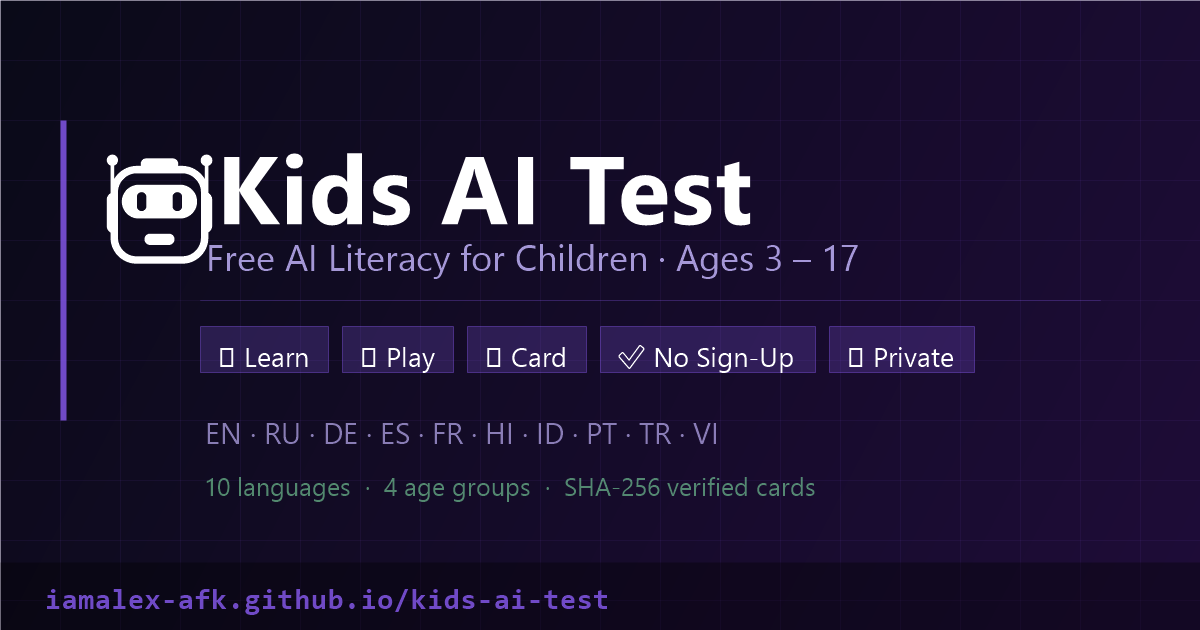
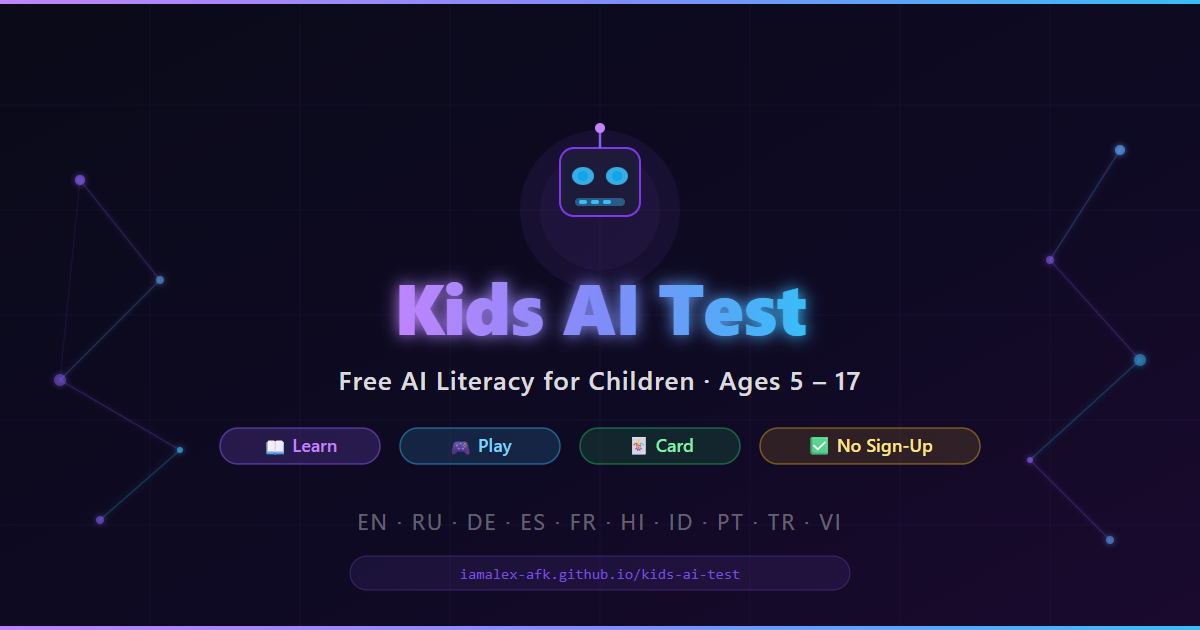
Speech only on a tap in games; neutral 5-7 answer marks; og.png re-rendered
- snake / runner / racing: after a round, ages 5-10 get a "Read to me"
  button instead of automatic speech (docs/VISUAL-SPEC.md §8)
- 5-7 lesson check on the main page: the big marks were green/red by
  position (the first answer always looked right); now neutral star/moon
- og.png rendered from og.svg: ages 5-17, no broken glyphs, no
  "SHA-256 verified cards" claim

diff --git a/js/snake.js b/js/snake.js
@@ -860,10 +860,16 @@
         els.overlay.classList.add('hidden'); playRound(roundIdx + 1);
       }, { once: true });
 
-      // Read the learned word/phrase + fact aloud — the youngest players
-      // can't read yet, and this fact is the whole point of the round.
-      if ((age === 'tiny' || age === 'child') && window.speakText) {
-        window.speakText(`${wordDisplay}. ${round.fact || ''}`);
+      // The youngest players can't read yet: a "Read to me" button reads the
+      // word + fact aloud. Only on a tap (docs/VISUAL-SPEC.md §8), never by itself.
+      if ((age === 'tiny' || age === 'child') && window.speakText && window.speechSynthesis) {
+        const read = document.createElement('button');
+        read.type = 'button';
+        read.className = 'btn-read-aloud';
+        read.textContent = '🔊 ' + (window.LANG_DATA?.ui?.ui_read_aloud || 'Read to me');
+        read.addEventListener('click', () => window.speakText(`${wordDisplay}. ${round.fact || ''}`));
+        const card = els.overlay.querySelector('.snake-overlay-card');
+        card.insertBefore(read, card.querySelector('.btn-primary'));
       }
     }
 

diff --git a/js/platformer.js b/js/platformer.js
@@ -856,10 +856,16 @@
         els.overlay.classList.add('hidden'); state.paused = false;
       }, { once: true });
 
-      // Read the learned word/phrase + fact aloud — the youngest players
-      // can't read yet, and this fact is the whole point of the round.
-      if ((age === 'tiny' || age === 'child') && window.speakText) {
-        window.speakText(`${wordDisplay}. ${round.fact || ''}`);
+      // The youngest players can't read yet: a "Read to me" button reads the
+      // word + fact aloud. Only on a tap (docs/VISUAL-SPEC.md §8), never by itself.
+      if ((age === 'tiny' || age === 'child') && window.speakText && window.speechSynthesis) {
+        const read = document.createElement('button');
+        read.type = 'button';
+        read.className = 'btn-read-aloud';
+        read.textContent = '🔊 ' + (window.LANG_DATA?.ui?.ui_read_aloud || 'Read to me');
+        read.addEventListener('click', () => window.speakText(`${wordDisplay}. ${round.fact || ''}`));
+        const card = els.overlay.querySelector('.snake-overlay-card');
+        card.insertBefore(read, card.querySelector('.btn-primary'));
       }
     }
 

diff --git a/js/racing.js b/js/racing.js
@@ -805,10 +805,16 @@
         els.overlay.classList.add('hidden'); state.paused = false;
       }, { once: true });
 
-      // Read the learned word/phrase + fact aloud — the youngest players
-      // can't read yet, and this fact is the whole point of the round.
-      if ((age === 'tiny' || age === 'child') && window.speakText) {
-        window.speakText(`${wordDisplay}. ${round.fact || ''}`);
+      // The youngest players can't read yet: a "Read to me" button reads the
+      // word + fact aloud. Only on a tap (docs/VISUAL-SPEC.md §8), never by itself.
+      if ((age === 'tiny' || age === 'child') && window.speakText && window.speechSynthesis) {
+        const read = document.createElement('button');
+        read.type = 'button';
+        read.className = 'btn-read-aloud';
+        read.textContent = '🔊 ' + (window.LANG_DATA?.ui?.ui_read_aloud || 'Read to me');
+        read.addEventListener('click', () => window.speakText(`${wordDisplay}. ${round.fact || ''}`));
+        const card = els.overlay.querySelector('.snake-overlay-card');
+        card.insertBefore(read, card.querySelector('.btn-primary'));
       }
     }
 

diff --git a/js/core.js b/js/core.js
@@ -426,7 +426,7 @@ function renderMiniTest() {
 
   if (isTiny) {
     opts.className = 'tiny-answers';
-    const tinyIcons = ['🟢', '🔴'];
+    const tinyIcons = ['⭐', '🌙'];   // neutral: a colour must not hint at the answer
     displayOpts.forEach((opt, i) => {
       const btn = document.createElement('button');
       btn.className = 'ans-tiny';

diff --git a/PROJECT-STATUS.md b/PROJECT-STATUS.md
@@ -76,8 +76,10 @@ was used; all work below is on the current GitHub code.
 
 Не сделано на этом этапе: шаг «новый пример для самостоятельного применения» и «цель урока» (§8) — в `data/*.js`
 таких полей нет, придумывать их не стал; светлая тема и §8 для урока **внутри** главной (там по-прежнему тёмное
-оформление); озвучка в играх после раунда для 5–10 остаётся автоматической (игры — этап §9); в 5–7 на главной
-кружки 🟢/🔴 стоят по позиции, а не по правильности — может путать, нужно решение при переделке экрана.
+оформление); после этапа 2 исправлено отдельно: в играх (змейка, раннер, гонки) озвучка после раунда для 5–10 больше не
+включается сама — кнопка «🔊 Прочитать мне»; в 5–7 на главной вместо кружков 🟢/🔴 (цвет стоял по позиции и
+подсказывал «первый ответ верный») — нейтральные ⭐/🌙; `og.png` перерисована из `og.svg` (было «Ages 3–17»,
+пустые квадраты вместо значков и снятое ранее «SHA-256 verified cards»).
 
 ### Не сделано по спецификации (следующие этапы)
 
@@ -116,7 +118,6 @@ was used; all work below is on the current GitHub code.
 ## NOT yet checked
 
 - In-depth browser run of lessons and games, print, offline, SW update from the old version, Lighthouse, live CSP headers. (Entry screens: see the visual-spec section above.)
-- `og.png` still shows "Ages 3 – 17" (raster; needs re-rendering from `og.svg`).
 
 ## Published
 
